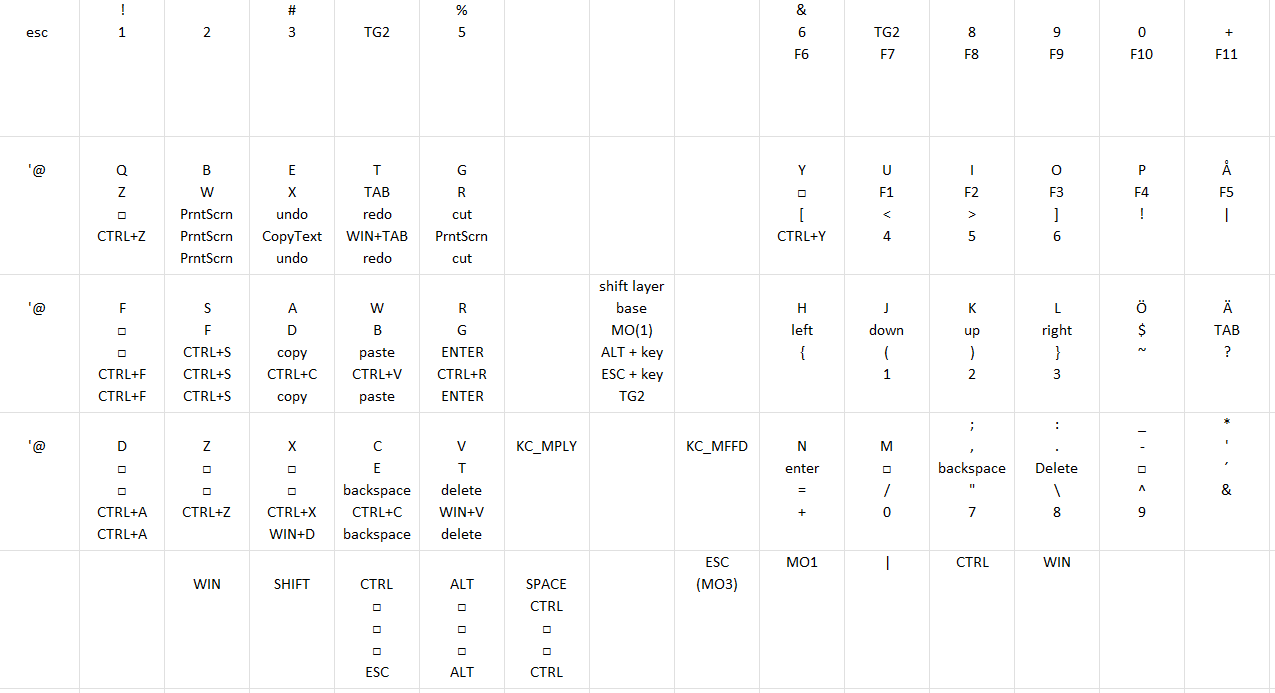
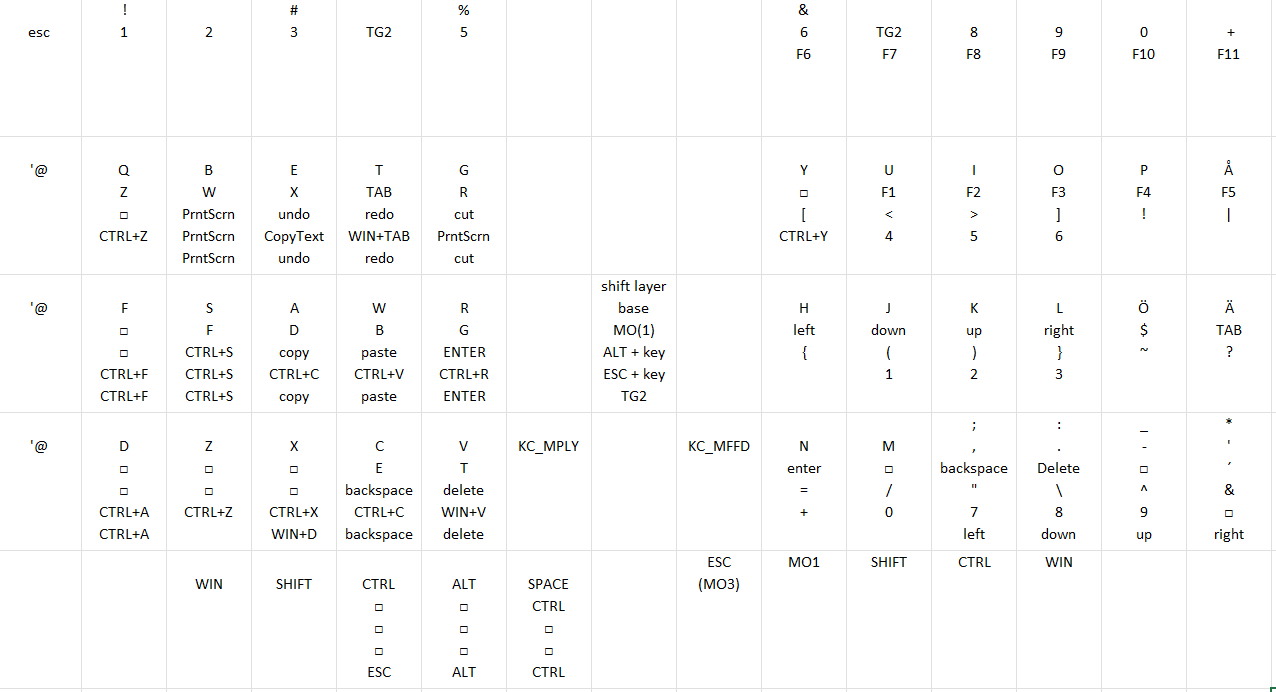
added arrows for TG2

diff --git a/keyboards/sofle/keymaps/malin/keymap.c b/keyboards/sofle/keymaps/malin/keymap.c
@@ -63,7 +63,7 @@ KC_CAPS,     MO(1),     KC_LSFT,    KC_LCTL,    KC_LGUI
             KC_6,       TG(2),      KC_8,       KC_9,       KC_0,       SE_PLUS,
             KC_Y,       KC_U,       KC_I,       KC_O,       KC_P,       SE_AA,
             KC_H,       KC_J,       KC_K,       KC_L,       SE_OE,      SE_AE,
-KC_MFFD,    KC_N,       KC_M,       KC_COMM,    KC_DOT,     SE_MINS,    KC_NUHS,
+KC_MFFD,    KC_N,       KC_M,       KC_LEFT,    KC_DOWN,    KC_UP,      KC_RGHT,
 KC_CAPS,    MO(1),      KC_LSFT,    KC_LCTL,    KC_LGUI
     ),
 
